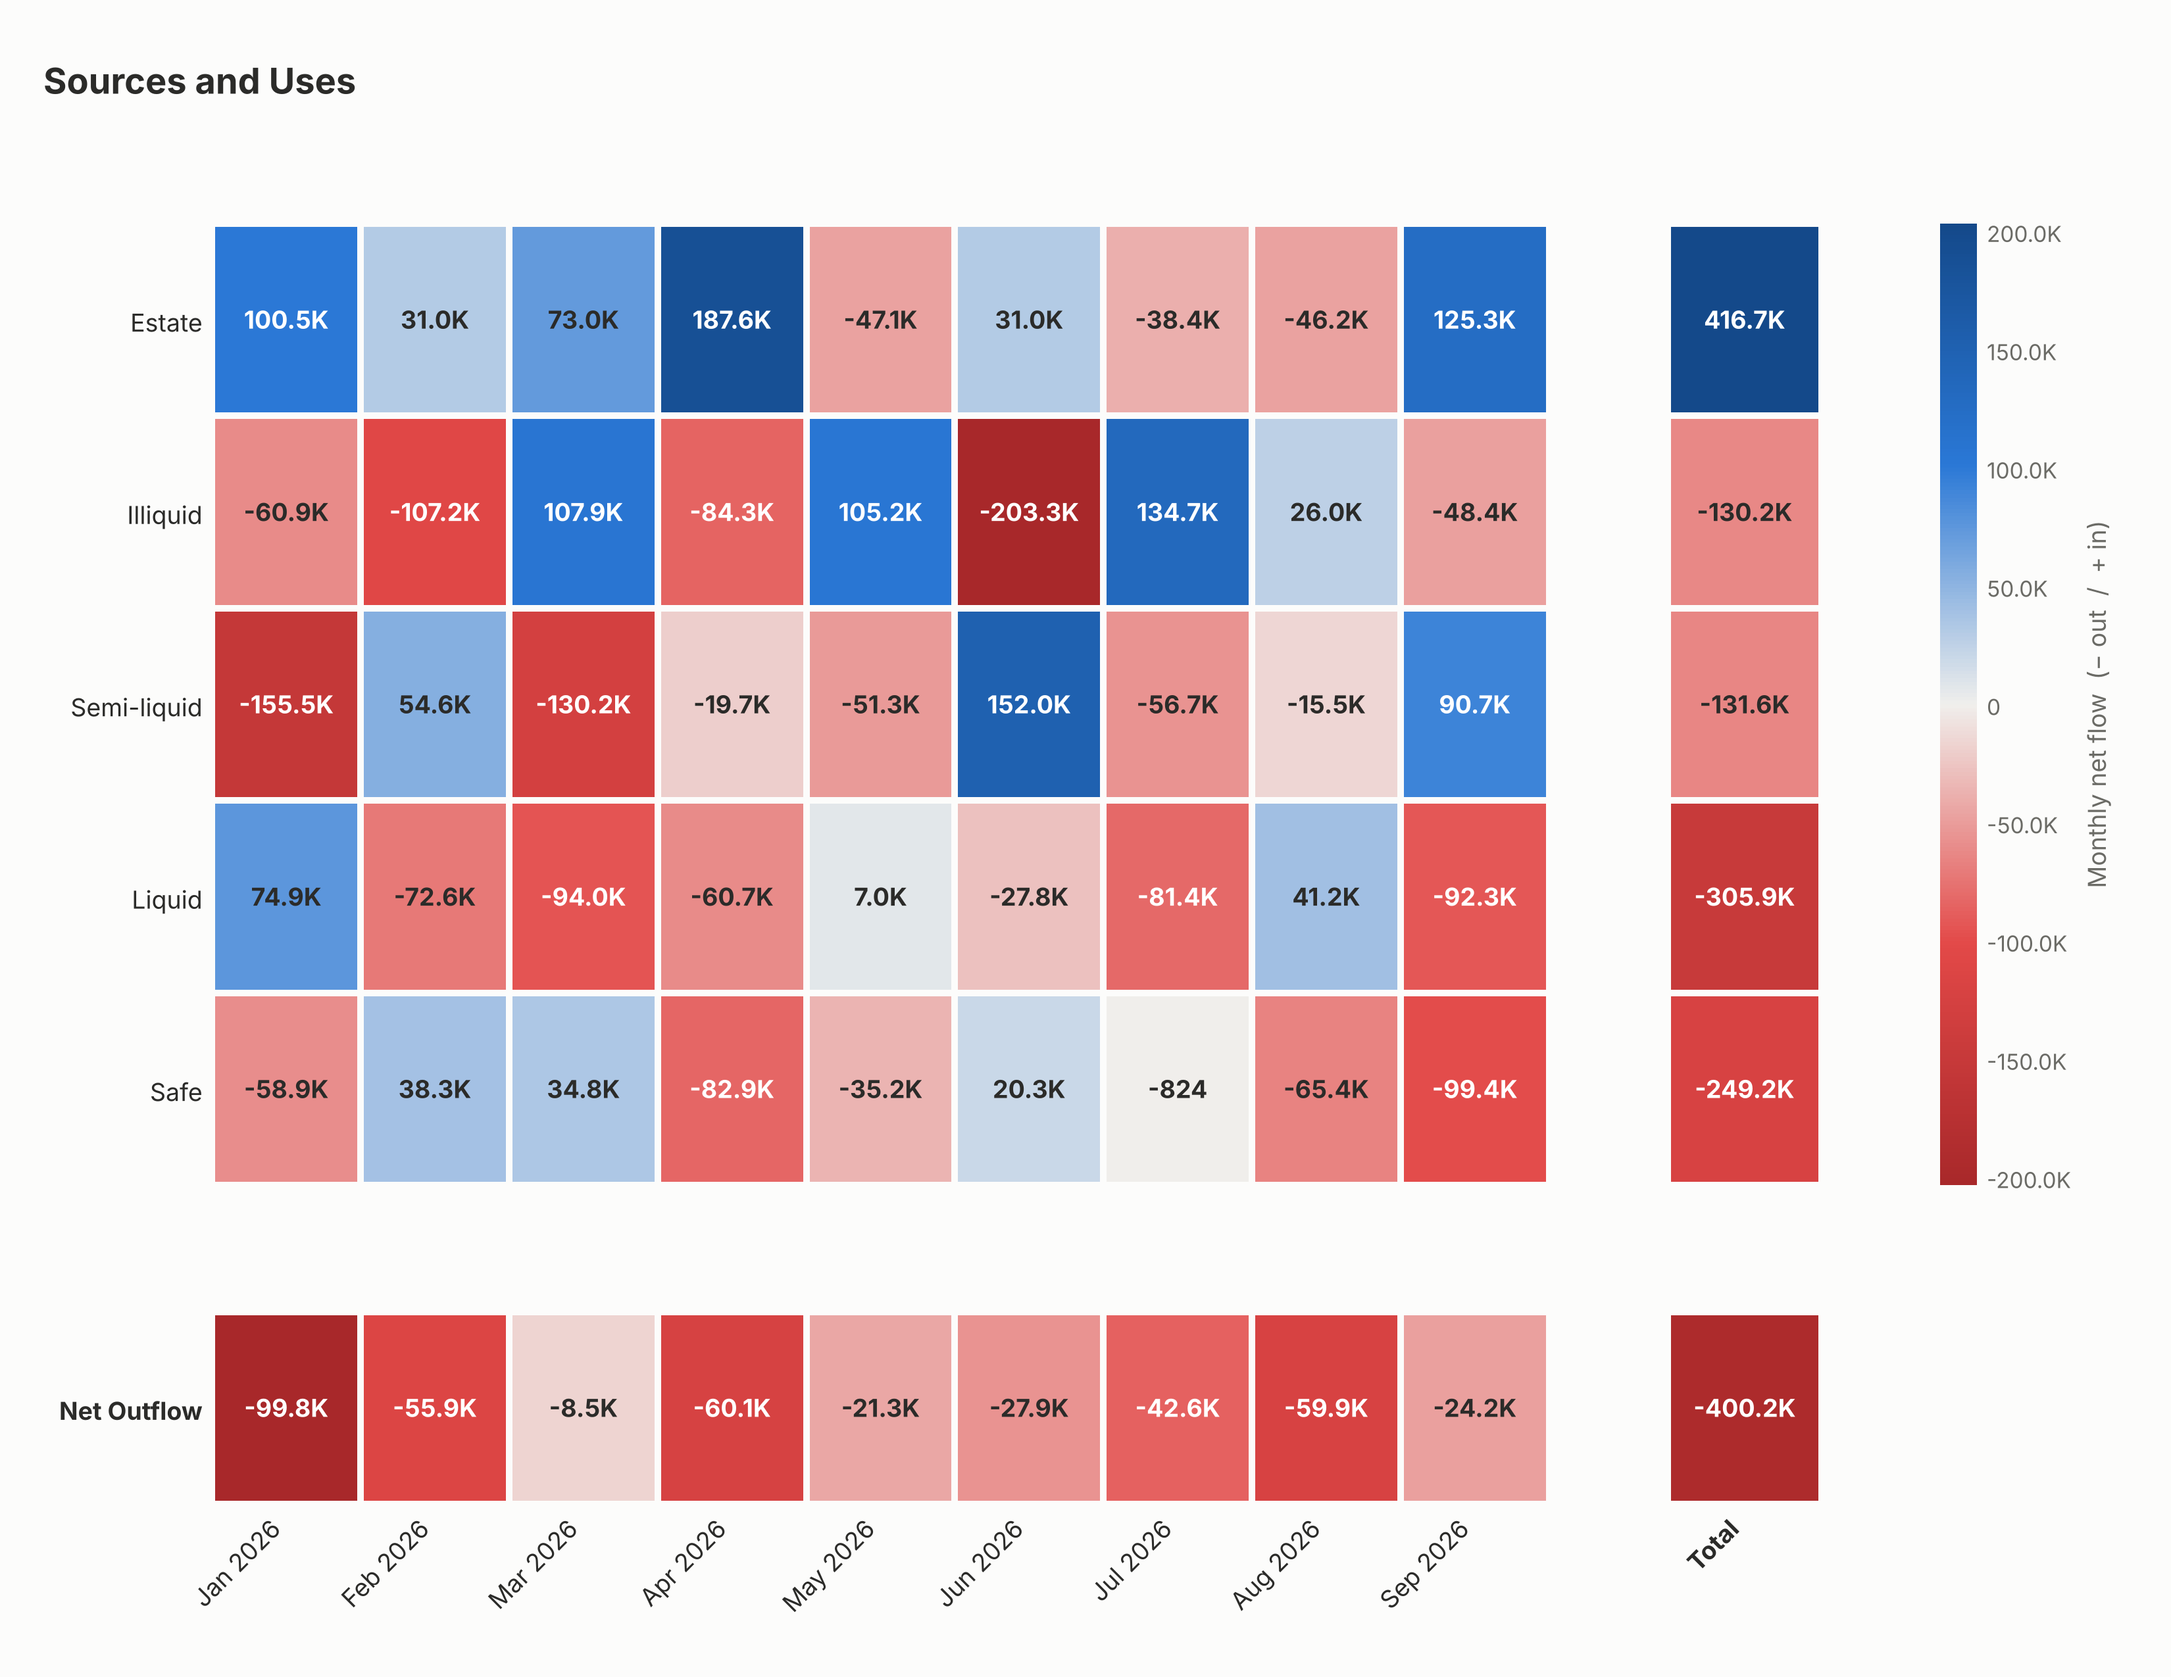
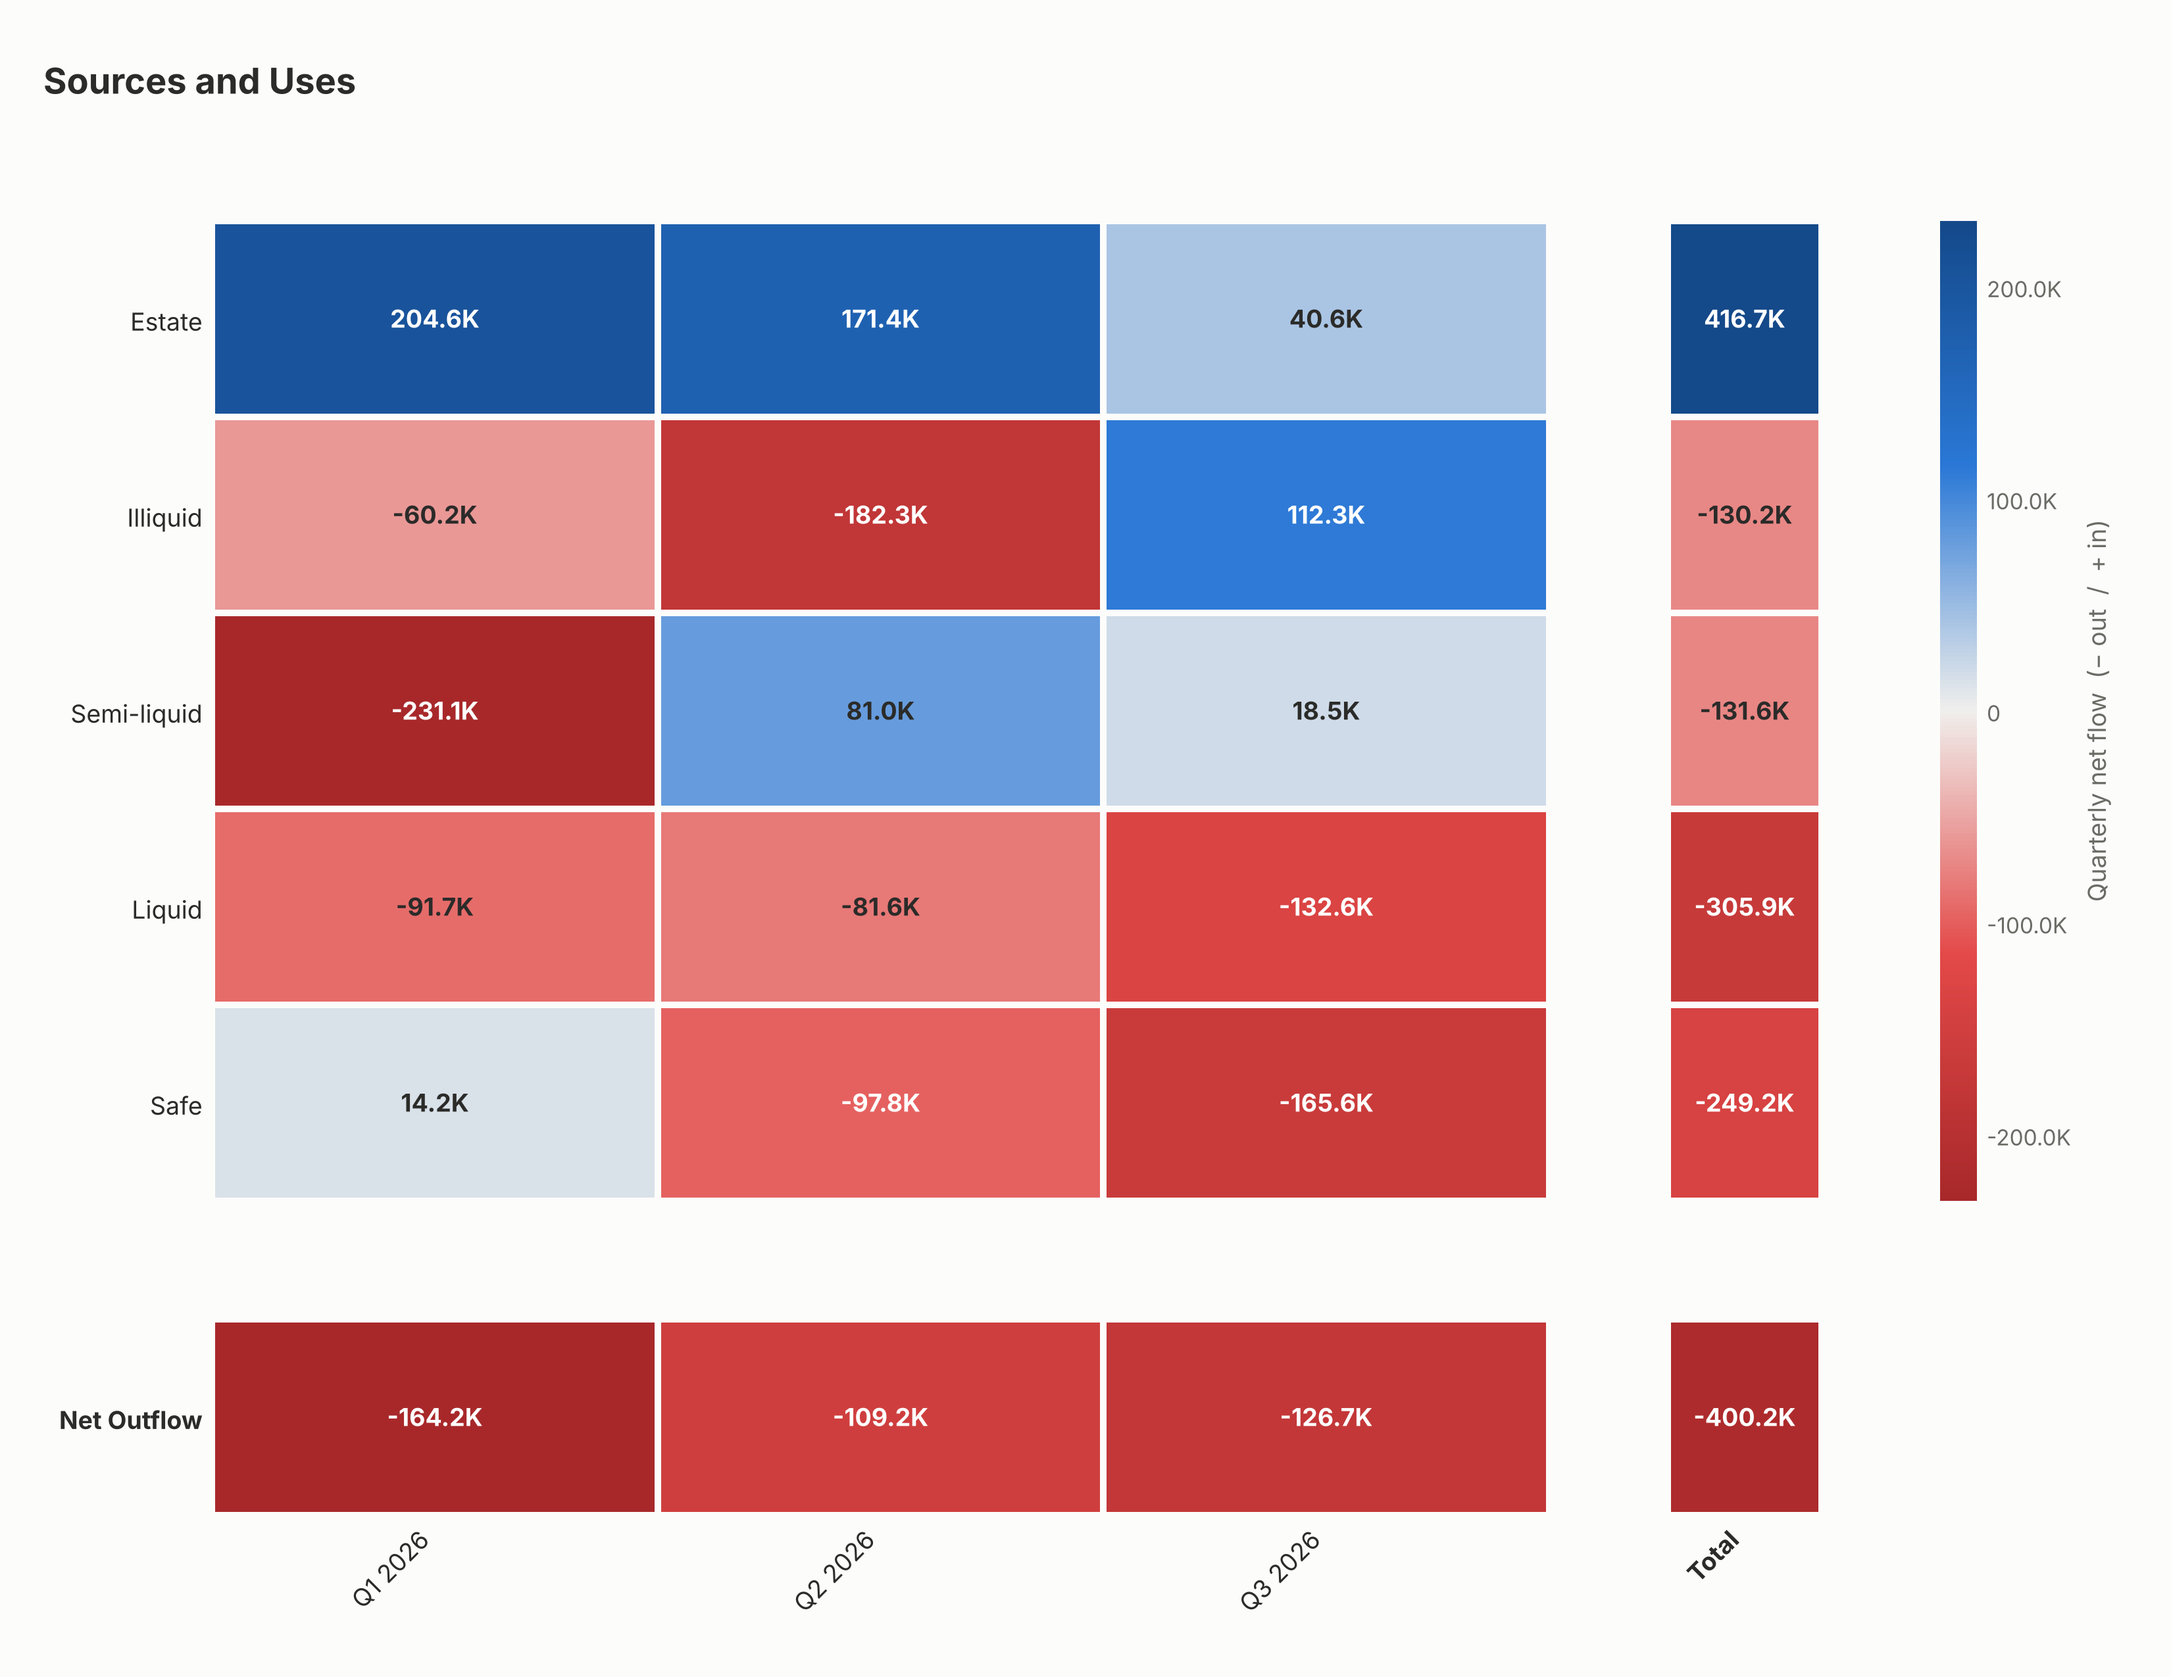
Add --period switch for quarterly or monthly sums
Quarterly is the default; --period monthly gives the previous behaviour.
Columns are labelled "Q1 2026" or "Jan 2026" and the colour bar label
follows the chosen period. The example image is regenerated as quarterly.

Claude-Session: https://claude.ai/code/session_01G4mqZZ5JkAJGFXsQnS5F9m

diff --git a/cashflow_heatmap.py b/cashflow_heatmap.py
@@ -1,5 +1,5 @@
 #!/usr/bin/env python3
-"""Build a heat map of monthly net cash flows per account from an xlsx file.
+"""Build a heat map of quarterly or monthly net cash flows per account from an xlsx file.
 
 The input sheet must have a header row with the columns: Date, Amount, To, From.
 Each row moves `Amount` out of the `From` account and into the `To` account, so
@@ -9,7 +9,8 @@ If an account named "Net Outflow" appears in the To column, its net flow is
 shown with the sign reversed in a separate row along the bottom.
 
 Usage:
-    python cashflow_heatmap.py flows.xlsx [-o heatmap.png] [--sheet NAME] [--no-labels]
+    python cashflow_heatmap.py flows.xlsx [-o heatmap.png] [--period quarterly|monthly]
+                               [--sheet NAME] [--no-labels]
 """
 
 import argparse
@@ -33,6 +34,11 @@ OUTFLOW_ACCOUNT = "Net Outflow"
 ACCOUNT_ORDER = ["Estate", "Illiquid", "Semi-liquid", "Liquid", "Safe"]
 # Accounts from ACCOUNT_ORDER that are left out when they have no entries in the file.
 HIDE_IF_UNUSED = {"Estate"}
+# --period choices: pandas period code, column label format, colour bar wording.
+PERIODS = {
+    "quarterly": ("Q", "Q%q %Y", "Quarterly"),
+    "monthly": ("M", "%b %Y", "Monthly"),
+}
 
 # Diverging scale: red = net outflow, neutral gray = zero, blue = net inflow.
 DIVERGING = LinearSegmentedColormap.from_list(
@@ -102,9 +108,10 @@ def load_flows(path, sheet=0):
     return df
 
 
-def monthly_net_flows(df):
-    """Return a DataFrame indexed by account, one column per calendar month."""
-    month = df["Date"].dt.to_period("M")
+def net_flows(df, freq="Q"):
+    """Return a DataFrame indexed by account, one column per calendar quarter
+    (freq="Q") or month (freq="M")."""
+    month = df["Date"].dt.to_period(freq)
     inflows = pd.DataFrame({"Account": df["To"], "Month": month, "Net": df["Amount"]})
     outflows = pd.DataFrame({"Account": df["From"], "Month": month, "Net": -df["Amount"]})
     # A blank To/From (e.g. an external deposit or withdrawal) only affects the other side.
@@ -113,8 +120,8 @@ def monthly_net_flows(df):
 
     table = legs.pivot_table(index="Account", columns="Month", values="Net",
                              aggfunc="sum", fill_value=0.0)
-    # Include every month in the range, even ones with no activity.
-    all_months = pd.period_range(month.min(), month.max(), freq="M")
+    # Include every period in the range, even ones with no activity.
+    all_months = pd.period_range(month.min(), month.max(), freq=freq)
     table = table.reindex(columns=all_months, fill_value=0.0)
     return table.sort_index()
 
@@ -194,7 +201,7 @@ def style_axes(ax):
         spine.set_visible(False)
 
 
-def plot_heatmap(table, out_path, show_labels=True, outflow=None):
+def plot_heatmap(table, out_path, show_labels=True, outflow=None, period="quarterly"):
     """Draw the heat map. `outflow`, if given, is a one-row DataFrame (same
     month columns as `table`) drawn as a separate row along the bottom."""
     n_accounts, n_months = table.shape
@@ -274,10 +281,11 @@ def plot_heatmap(table, out_path, show_labels=True, outflow=None):
     ax.set_yticklabels([n if len(n) <= 40 else n[:39] + "…" for n in table.index],
                        fontsize=y_fontsize)
 
-    # Month and "Total" labels go under the bottom-most row.
+    _, label_format, period_name = PERIODS[period]
+    # Period and "Total" labels go under the bottom-most row.
     month_axes[-1].set_xticks(np.arange(0, n_months, x_step) + 0.5)
     month_axes[-1].set_xticklabels(
-        [p.strftime("%b %Y") for p in table.columns[::x_step]],
+        [p.strftime(label_format) for p in table.columns[::x_step]],
         rotation=45, ha="right", fontsize=x_fontsize)
     total_axes[-1].set_xticks([0.5])
     total_axes[-1].set_xticklabels(["Total"], fontsize=x_fontsize, fontweight="bold",
@@ -287,7 +295,7 @@ def plot_heatmap(table, out_path, show_labels=True, outflow=None):
     cbar.outline.set_visible(False)
     cbar.ax.tick_params(colors=MUTED_INK, labelsize=8, length=0)
     cbar.ax.yaxis.set_major_formatter(FuncFormatter(lambda v, _: compact(v)))
-    cbar.set_label("Monthly net flow  (− out  /  + in)", color=MUTED_INK, fontsize=9)
+    cbar.set_label(f"{period_name} net flow  (− out  /  + in)", color=MUTED_INK, fontsize=9)
 
     fig.suptitle("Sources and Uses", x=0.02, ha="left",
                  color=INK, fontsize=13, fontweight="bold")
@@ -314,6 +322,9 @@ def main():
     parser.add_argument("xlsx", help="input .xlsx file with Date, Amount, To, From columns")
     parser.add_argument("-o", "--output", default="net_flows_heatmap.png",
                         help="output PNG path (default: net_flows_heatmap.png)")
+    parser.add_argument("--period", choices=PERIODS, default="quarterly",
+                        help="sum the flows per calendar quarter or month "
+                             "(default: quarterly)")
     parser.add_argument("--sheet", default=0,
                         help="sheet name or index to read (default: first sheet)")
     parser.add_argument("--no-labels", action="store_true",
@@ -325,11 +336,13 @@ def main():
     if df.empty:
         sys.exit("No valid rows found.")
 
-    table = monthly_net_flows(df)
+    table = net_flows(df, freq=PERIODS[args.period][0])
     table, outflow = split_outflow(table, df)
     table = order_accounts(table)
-    plot_heatmap(table, args.output, show_labels=not args.no_labels, outflow=outflow)
-    print(f"Saved heat map for {table.shape[0]} accounts x {table.shape[1]} months "
+    plot_heatmap(table, args.output, show_labels=not args.no_labels, outflow=outflow,
+                 period=args.period)
+    unit = "quarters" if args.period == "quarterly" else "months"
+    print(f"Saved heat map for {table.shape[0]} accounts x {table.shape[1]} {unit} "
           f"to {args.output}")
 
 

diff --git a/README.md b/README.md
@@ -1,6 +1,6 @@
 # Cash flow heat map
 
-Builds a "Sources and Uses" heat map of monthly net cash flows per account from
+Builds a "Sources and Uses" heat map of quarterly (or monthly) net cash flows per account from
 an Excel file, sized to print on US Letter paper in landscape (11 × 8.5 in, 300 dpi PNG).
 
 ![Example heat map](example/sample_heatmap.png)
@@ -27,6 +27,7 @@ python cashflow_heatmap.py flows.xlsx -o heatmap.png
 
 Options:
 
+- `--period quarterly|monthly` sums the flows per calendar quarter (the default) or month.
 - `--sheet NAME` reads a sheet other than the first.
 - `--no-labels` leaves the numbers out of the cells.
 
@@ -35,11 +36,12 @@ Options:
 - One row per account, in the order **Estate, Illiquid, Semi-liquid, Liquid, Safe**
   (`ACCOUNT_ORDER`). Estate is hidden if it never appears in the file (`HIDE_IF_UNUSED`).
   Any other account name is shown at the bottom with a warning.
-- One column per calendar month, plus a **Total** column for the whole period.
+- One column per calendar quarter (or month with `--period monthly`), plus a
+  **Total** column for the whole period.
 - Blue is net money in, red is net money out, gray is zero. The numbers are in bold.
 - If an account named **Net Outflow** appears in the `To` column, it is shown in a
   separate row along the bottom with its sign reversed.
 - The Total column and the Net Outflow row each have their own color scale; the
-  legend applies to the monthly cells of the main grid.
+  legend applies to the quarterly (or monthly) cells of the main grid.
 
 `example/` contains a made-up input file and the heat map it produces.
